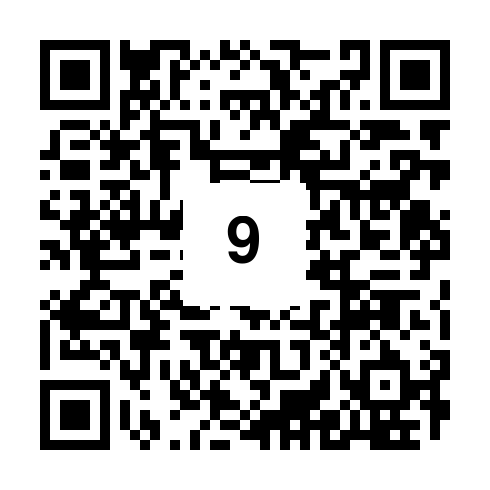
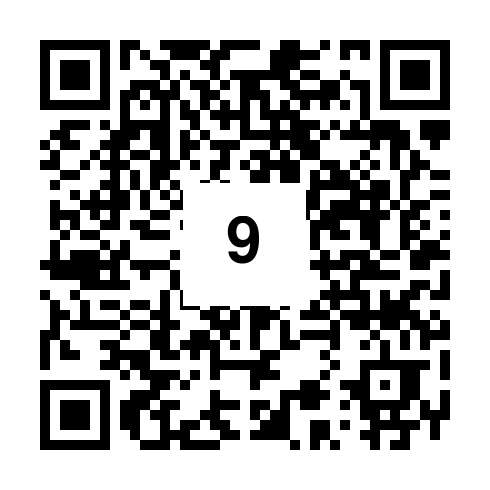
fixed company hit counter #6

diff --git a/templates/digitalMenuItem.html b/templates/digitalMenuItem.html
@@ -122,7 +122,7 @@
             <p>Sipariş ver butonuna tıklayarak {{ category.name }} siparişi verebilirsiniz</p>
             <div class="row1" style="padding-top: inherit">
                 {% if table_id %}
-                    <form action="{% url 'order' company.slug category_slug category_id table_id %}" method="post">
+                    <form action="{% url 'order' company.slug category_slug table_id category_id  %}" method="post">
                         {% csrf_token %}
                         <input type="hidden" name="chosen_entry" id="entry_id" value="{{ category.id }}">
                         <input class="quantity" type="number" name="count" value="1" min="1" max="10" step="1"/>

diff --git a/templates/menu/digitalMenuCategory.html b/templates/menu/digitalMenuCategory.html
@@ -100,7 +100,7 @@
     <div class="cards-list">
         {% for category in categories %}
             {% if table_id %}
-                <a href="{% url 'category' company.slug category_slug category.id  table_id %}">
+                <a href="{% url 'category' company.slug category_slug table_id category.id %}">
             {% else %}
                 <a href="{% url 'category' company.slug category.id %}">
             {% endif %}
